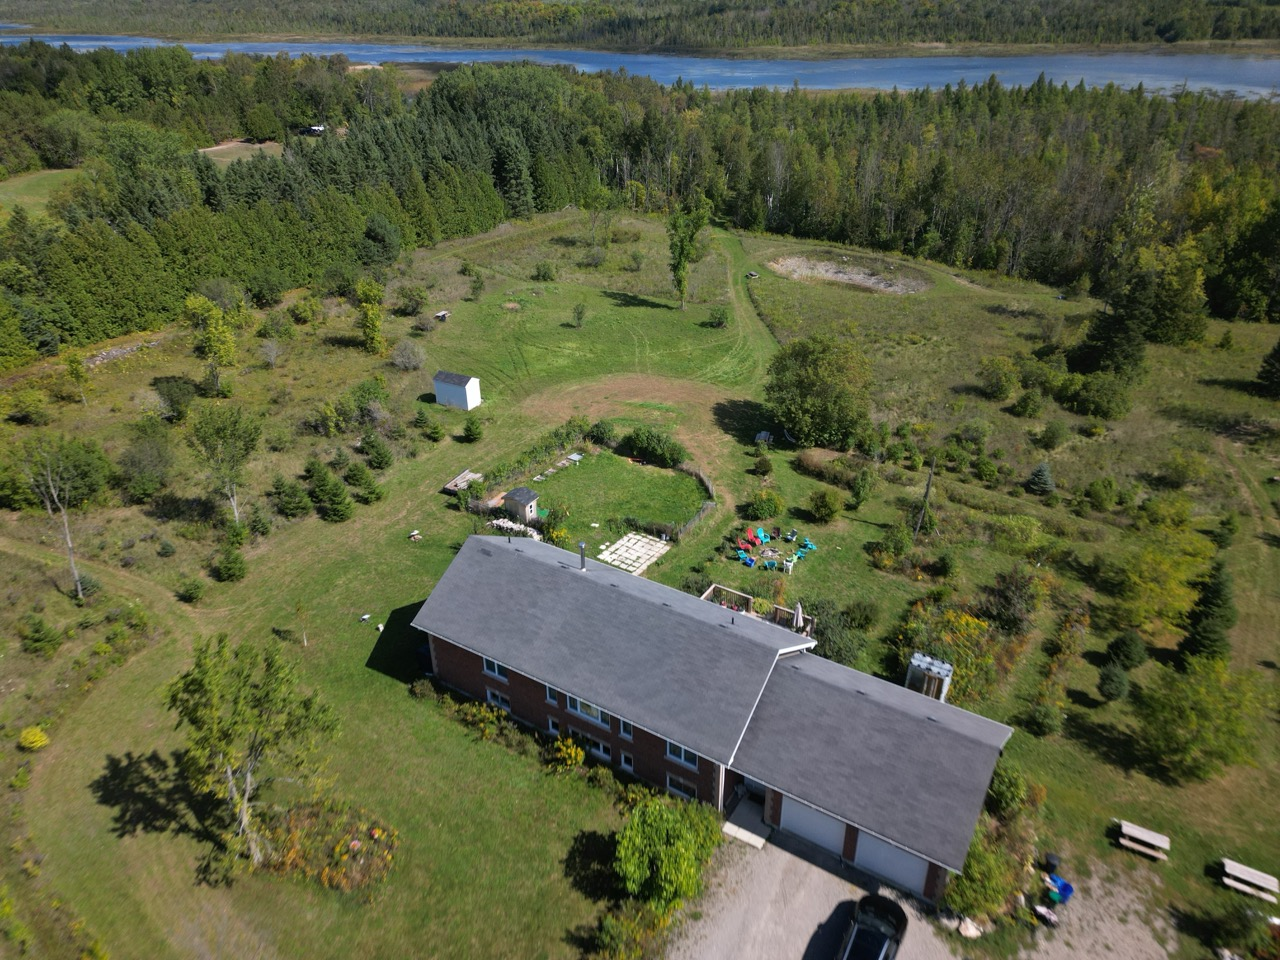
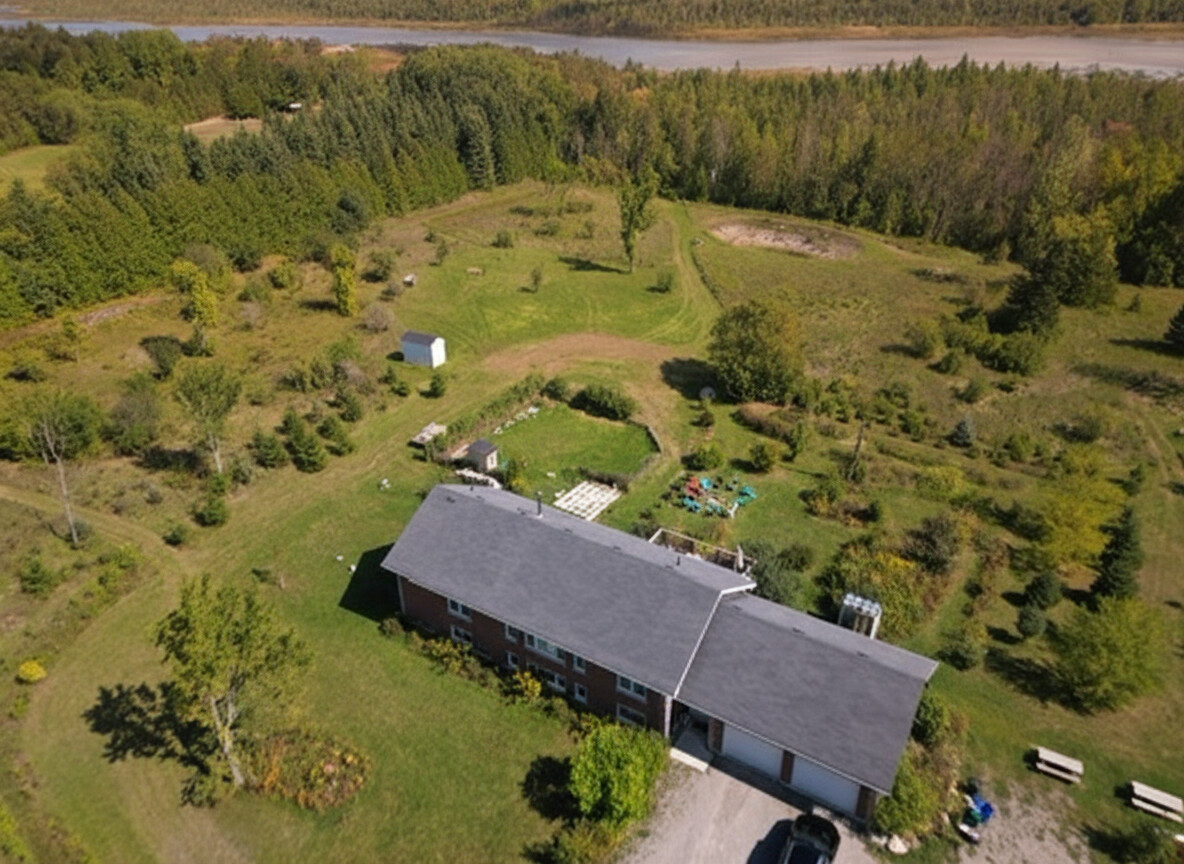
changes to pics

diff --git a/book-direct.html b/book-direct.html
@@ -1224,32 +1224,38 @@
     <button class="gallery-nav prev" id="galleryPrev" aria-label="Previous photos">&#8249;</button>
     <button class="gallery-nav next" id="galleryNext" aria-label="Next photos">&#8250;</button>
     <div class="photo-gallery-track" id="photoGalleryTrack">
-      <div class="photo-tile" data-i="0"><img src="images/Aerial/dji_fly_20230914_121132_104_1694708848759_photo Large.jpeg" alt="Property aerial view" loading="lazy"></div>
-      <div class="photo-tile" data-i="1"><img src="images/Aerial/dji_fly_20230909_142826_82_1694707575972_photo Large.jpeg" alt="Waterfront yoga deck aerial" loading="lazy"></div>
-      <div class="photo-tile" data-i="2"><img src="images/Waterfront/IMG_2790 Large.jpeg" alt="Dock with reeds" loading="lazy"></div>
-      <div class="photo-tile" data-i="3"><img src="images/Waterfront/IMG_3009 Large.jpeg" alt="Kayaking on the marsh" loading="lazy"></div>
-      <div class="photo-tile" data-i="4"><img src="images/Waterfront/IMG_6091 Large.jpeg" alt="Sunset dock with kayaks" loading="lazy"></div>
-      <div class="photo-tile" data-i="5"><img src="images/Waterfront/IMG_3492 Large.jpeg" alt="Rainbow over the field" loading="lazy"></div>
-      <div class="photo-tile" data-i="6"><img src="images/Waterfront/water front Large.jpeg" alt="Waterfront view" loading="lazy"></div>
-      <div class="photo-tile" data-i="7"><img src="images/Outdoor/IMG_2069 Large.jpeg" alt="Adirondack chairs around fire pit at night" loading="lazy"></div>
-      <div class="photo-tile" data-i="8"><img src="images/Outdoor/IMG_4499 Large.jpeg" alt="Bonfire evening" loading="lazy"></div>
-      <div class="photo-tile" data-i="9"><img src="images/Outdoor/Basketball Large.jpeg" alt="Basketball" loading="lazy"></div>
-      <div class="photo-tile" data-i="10"><img src="images/Outdoor/deck space Large.jpeg" alt="Outdoor deck" loading="lazy"></div>
-      <div class="photo-tile" data-i="11"><img src="images/Outdoor/67953573271__CDD7F853-29A4-467C-A47A-772963623EDB Large.jpeg" alt="Adirondack chairs and hammock on deck" loading="lazy"></div>
-      <div class="photo-tile" data-i="12"><img src="images/Outdoor/Snowy deck and bar essentials Large.jpeg" alt="Snowy deck with bar essentials" loading="lazy"></div>
-      <div class="photo-tile" data-i="13"><img src="images/Living/IMG_4228 Large.jpeg" alt="Living room with wood stove" loading="lazy"></div>
-      <div class="photo-tile" data-i="14"><img src="images/Living/fireplace Large.jpeg" alt="Fireplace" loading="lazy"></div>
-      <div class="photo-tile" data-i="15"><img src="images/Living/Traditional dining room with snowy view Large.jpeg" alt="Dining room with snowy view" loading="lazy"></div>
-      <div class="photo-tile" data-i="16"><img src="images/Bar/Bar Large.jpeg" alt="Home bar" loading="lazy"></div>
-      <div class="photo-tile" data-i="17"><img src="images/Bar/Stylish home bar with lion artwork Large.jpeg" alt="Stylish bar with lion artwork" loading="lazy"></div>
-      <div class="photo-tile" data-i="18"><img src="images/Kitchen/Kitchen Large.jpeg" alt="Full kitchen" loading="lazy"></div>
-      <div class="photo-tile" data-i="19"><img src="images/Room/Master Bedroom Large.jpeg" alt="Master bedroom" loading="lazy"></div>
-      <div class="photo-tile" data-i="20"><img src="images/Room/Serene bedroom with nature views Large.jpeg" alt="Serene bedroom with nature views" loading="lazy"></div>
-      <div class="photo-tile" data-i="21"><img src="images/Bunkie/bunkie Large.jpeg" alt="Forest Bunkie exterior" loading="lazy"></div>
-      <div class="photo-tile" data-i="22"><img src="images/Tent/IMG_3886 Large.jpeg" alt="Bell tent in the forest" loading="lazy"></div>
-      <div class="photo-tile" data-i="23"><img src="images/Permaculture/IMG_3106 Large.jpeg" alt="Garden with tomato plants" loading="lazy"></div>
-      <div class="photo-tile" data-i="24"><img src="images/Permaculture/IMG_3559 Large.jpeg" alt="Lion's mane mushrooms" loading="lazy"></div>
-      <div class="photo-tile" data-i="25"><img src="images/Winter/IMG_7078 Large.jpeg" alt="Frosty winter morning meadow" loading="lazy"></div>
+      <div class="photo-tile" data-i="0"><img src="images/Aerial/dji_fly_20230914_121132_104_1694708848759_photo Large.jpeg" alt="Aerial view of the farm property" loading="lazy"></div>
+      <div class="photo-tile" data-i="1"><img src="images/Aerial/dji_fly_20230914_121856_115_1694708797996_photo Large.jpeg" alt="Aerial view over the farmhouse and gardens" loading="lazy"></div>
+      <div class="photo-tile" data-i="2"><img src="images/Aerial/dji_fly_20230909_142826_82_1694707575972_photo Large.jpeg" alt="Aerial of the waterfront yoga deck" loading="lazy"></div>
+      <div class="photo-tile" data-i="3"><img src="images/Living/ChatGPT Image Jan 19, 2026, 02_47_10 PM Large.jpeg" alt="Living room with sectional and snowy view" loading="lazy"></div>
+      <div class="photo-tile" data-i="4"><img src="images/Living/living-room-sectional Large.jpeg" alt="Living room with sectional sofa and TV" loading="lazy"></div>
+      <div class="photo-tile" data-i="5"><img src="images/Living/IMG_4228 Large.jpeg" alt="Family room with wood stove" loading="lazy"></div>
+      <div class="photo-tile" data-i="6"><img src="images/Living/fireplace Large.jpeg" alt="Cozy room with lit wood stove" loading="lazy"></div>
+      <div class="photo-tile" data-i="7"><img src="images/Living/Traditional dining room with snowy view Large.jpeg" alt="Dining room with snowy view" loading="lazy"></div>
+      <div class="photo-tile" data-i="8"><img src="images/Kitchen/Kitchen Large.jpeg" alt="Full kitchen with island seating" loading="lazy"></div>
+      <div class="photo-tile" data-i="9"><img src="images/Outdoor/Snowy deck and bar essentials Large.jpeg" alt="Home bar window with glassware" loading="lazy"></div>
+      <div class="photo-tile" data-i="10"><img src="images/Bar/Bar Large.jpeg" alt="Home bar with seating" loading="lazy"></div>
+      <div class="photo-tile" data-i="11"><img src="images/Room/Master Bedroom Large.jpeg" alt="Master bedroom" loading="lazy"></div>
+      <div class="photo-tile" data-i="12"><img src="images/Room/Beekeepers Room.jpeg" alt="Beekeeper's room with garden door" loading="lazy"></div>
+      <div class="photo-tile" data-i="13"><img src="images/Room/Mushroom Room Large.jpeg" alt="Mushroom room with reading nook" loading="lazy"></div>
+      <div class="photo-tile" data-i="14"><img src="images/Room/Bikers Room.jpeg" alt="Biker's room" loading="lazy"></div>
+      <div class="photo-tile" data-i="15"><img src="images/Room/King Room Large.jpeg" alt="King room with bunks and workspace" loading="lazy"></div>
+      <div class="photo-tile" data-i="16"><img src="images/Tiny House/interior-kitchen-sectional-loft.jpg" alt="Tiny house interior with loft" loading="lazy"></div>
+      <div class="photo-tile" data-i="17"><img src="images/Bunkie/bunkie Large.jpeg" alt="Forest bunkie exterior" loading="lazy"></div>
+      <div class="photo-tile" data-i="18"><img src="images/Room/13 foot Bell Tent.jpeg" alt="Bell tent on the meadow" loading="lazy"></div>
+      <div class="photo-tile" data-i="19"><img src="images/Tent/IMG_3886 Large.jpeg" alt="Bell tent in the forest" loading="lazy"></div>
+      <div class="photo-tile" data-i="20"><img src="images/Tent/IMG_4979 Large.jpeg" alt="Inside a glamping bell tent" loading="lazy"></div>
+      <div class="photo-tile" data-i="21"><img src="images/Hottub/IMG_7574_hot_tub_night.jpeg" alt="Hot tub at dusk" loading="lazy"></div>
+      <div class="photo-tile" data-i="22"><img src="images/Outdoor/deck space Large.jpeg" alt="Outdoor deck space" loading="lazy"></div>
+      <div class="photo-tile" data-i="23"><img src="images/Outdoor/67953573271__CDD7F853-29A4-467C-A47A-772963623EDB Large.jpeg" alt="Adirondack chairs and hammock on the deck" loading="lazy"></div>
+      <div class="photo-tile" data-i="24"><img src="images/Outdoor/IMG_4499 Large.jpeg" alt="Evening bonfire with guests" loading="lazy"></div>
+      <div class="photo-tile" data-i="25"><img src="images/Outdoor/IMG_2069 Large.jpeg" alt="Adirondack chairs around the fire pit at night" loading="lazy"></div>
+      <div class="photo-tile" data-i="26"><img src="images/Waterfront/IMG_3009 Large.jpeg" alt="Kayaking on the marsh" loading="lazy"></div>
+      <div class="photo-tile" data-i="27"><img src="images/Waterfront/IMG_6091 Large.jpeg" alt="Sunset over the dock with kayaks" loading="lazy"></div>
+      <div class="photo-tile" data-i="28"><img src="images/Waterfront/IMG_3492 Large.jpeg" alt="Rainbow over the field" loading="lazy"></div>
+      <div class="photo-tile" data-i="29"><img src="images/Permaculture/IMG_3106 Large.jpeg" alt="Garden with tomato plants" loading="lazy"></div>
+      <div class="photo-tile" data-i="30"><img src="images/Permaculture/IMG_3559 Large.jpeg" alt="Lion's mane mushrooms" loading="lazy"></div>
+      <div class="photo-tile" data-i="31"><img src="images/Winter/IMG_7078 Large.jpeg" alt="Frosty winter morning meadow" loading="lazy"></div>
     </div>
   </div>
 </section>
@@ -1260,7 +1266,7 @@
   <button class="lightbox-prev" onclick="lightboxStep(-1)" aria-label="Previous">&#8249;</button>
   <img class="lightbox-image" id="lightboxImage" src="" alt="">
   <button class="lightbox-next" onclick="lightboxStep(1)" aria-label="Next">&#8250;</button>
-  <div class="lightbox-counter" id="lightboxCounter">1 / 26</div>
+  <div class="lightbox-counter" id="lightboxCounter">1 / 32</div>
 </div>
 
 <!-- CALENDAR SYNC SECTION — hidden from public view (host-only reference). The two-way
